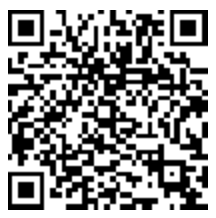
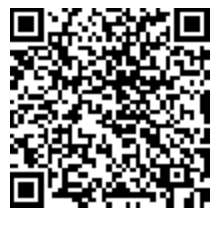
changed qr to correct userId and added deviceList from pretotype

diff --git a/public/partials/devList.html b/public/partials/devList.html
@@ -1,12 +1,122 @@
+<!-- DevList -->
+
 <section class="success" id="about">
     <div class="container-fluid">
+        <div class="row">
 
-        <div class="row" >
-            <div class="col-md-12 " id="steps">
-                <i class="fa-2x fa-phone"></i>
-                <a class="btn btn-primary" href="/#/devRegQR" style="position: absolute ; top: 11%; right: 5%">Sick of passwords? Try Passive Auth!</a>
+            <div class="col-sm-6 " id="steps">
+                <h2>Step 1 <i class="fa fa-tablet"></i> <i class="fa  fa-fw fa-cogs"></i></h2>
+
+                <h2>Step 2 <i class="fa fa-microphone"></i> <i class="fa fa-fw fa-cogs"></i></h2>
+
+                <h2>Step 3 <i class="fa fa-map-marker"></i> <i class="fa fa-fw fa-cogs"></i></h2>
+
+                <h2>step 4 <i class="fa fa-wifi"></i>      <i class="fa fa-fw fa-cogs"></i></h2>
+
+                <h2>step 5 <i class="fa fa-apple"></i> <i class="fa fa-fw fa-cogs"></i></h2>
+            </div>
+            <div class="col-sm-6">
+                <div id="success" style="display: none">
+                    <h2>"Successfully signed in"</h2>
+
+                    <h3>"4 out of 5 steps succeeded :) "</h3>
+                </div>
+                <div id="fail" style="display: none">
+                    <h2>"Failed to authenticate"</h2>
+                    <h3>"4 out of 5 steps failed :("</h3>
+                    <h5>Having trouble? ... request for an One time password, to your email <i class="fa fa-cc"></i></h5>
+                </div>
             </div>
         </div>
 
     </div>
 </section>
+
+
+
+
+
+<!-- Scroll to Top Button (Only visible on small and extra-small screen sizes) -->
+<div class="scroll-top page-scroll visible-xs visible-sm">
+    <a class="btn btn-primary" href="#page-top">
+        <i class="fa fa-chevron-up"></i>
+    </a>
+</div>
+
+<!-- Portfolio Modals -->
+
+
+<!-- jQuery -->
+<script src="js/jquery.js"></script>
+
+<!-- Bootstrap Core JavaScript -->
+<script src="js/bootstrap.min.js"></script>
+
+<!-- Plugin JavaScript -->
+<script src="http://cdnjs.cloudflare.com/ajax/libs/jquery-easing/1.3/jquery.easing.min.js"></script>
+<script src="js/classie.js"></script>
+<script src="js/cbpAnimatedHeader.js"></script>
+
+<!-- Contact Form JavaScript -->
+<script src="js/jqBootstrapValidation.js"></script>
+<script src="js/contact_me.js"></script>
+
+<!-- Custom Theme JavaScript -->
+<script src="js/freelancer.js"></script>
+
+
+<script type="text/javascript">
+    function getQueryStringParams(sParam) {
+        var sPageURL = window.location.search.substring(1);
+        var sURLVariables = sPageURL.split('&');
+        for (var i = 0; i < sURLVariables.length; i++) {
+            var sParameterName = sURLVariables[i].split('=');
+            if (sParameterName[0] == sParam) {
+                return sParameterName[1];
+            }
+        }
+    }
+    var m = 5
+    //int n= n out m
+    function authCheck(n, m) {
+        m = m || 5
+        var steps = $("#steps");
+        rows = steps.children()
+        var x = []
+        rows.each(function (i) {
+            x[i] = $(this)
+            setTimeout(function () {
+                if(n>m/2){
+                    if (i!=1 && i<=n) {
+                        x[i].find('.fa-fw').removeClass('fa-cogs')
+                        x[i].find('.fa-fw').addClass('fa-check-square')
+                    } else {
+                        x[i].find('.fa-fw').removeClass('fa-cogs')
+                        x[i].find('.fa-fw').addClass('fa-remove')
+                    }
+                }else{
+                    if ( i <n) {
+                        x[i].find('.fa-fw').removeClass('fa-cogs')
+                        x[i].find('.fa-fw').addClass('fa-check-square')
+                    } else {
+                        x[i].find('.fa-fw').removeClass('fa-cogs')
+                        x[i].find('.fa-fw').addClass('fa-remove')
+                    }
+                }
+            }, 1000 * i)
+        })
+        return n > m / 2
+    }
+    function success() {
+        setTimeout(function () {
+            n = getQueryStringParams('n')
+            if (n > m / 2) {
+                $('#success').show();
+            } else {
+                $('#fail').show();
+            }
+        }, 5000)
+    }
+    $(authCheck(getQueryStringParams('n')))
+    $(success())
+</script>

diff --git a/public/partials/devRegQR.html b/public/partials/devRegQR.html
@@ -23,7 +23,6 @@
 
         </div>
 
-
         <div class="row">
 
             <div class="col-md-9 col-md-offset-1">
@@ -46,10 +45,16 @@
 
                     </fieldset>
                 </form>
-
             </div>
+
         </div>
 
+        <div class = "row">
+            <div class = "col-md-4 col-md-offset-1">
+                <a class="btn btn-primary" href="/#/devList" style="position: absolute ; top: 11%; right: 5%">Sick of passwords? Try Passive Auth!</a>
+                <!--<button id="devList" name="devList" class="btn btn-primary"> See Device List </button>-->
+            </div>
+        </div>
 
     </div>
 </section>
